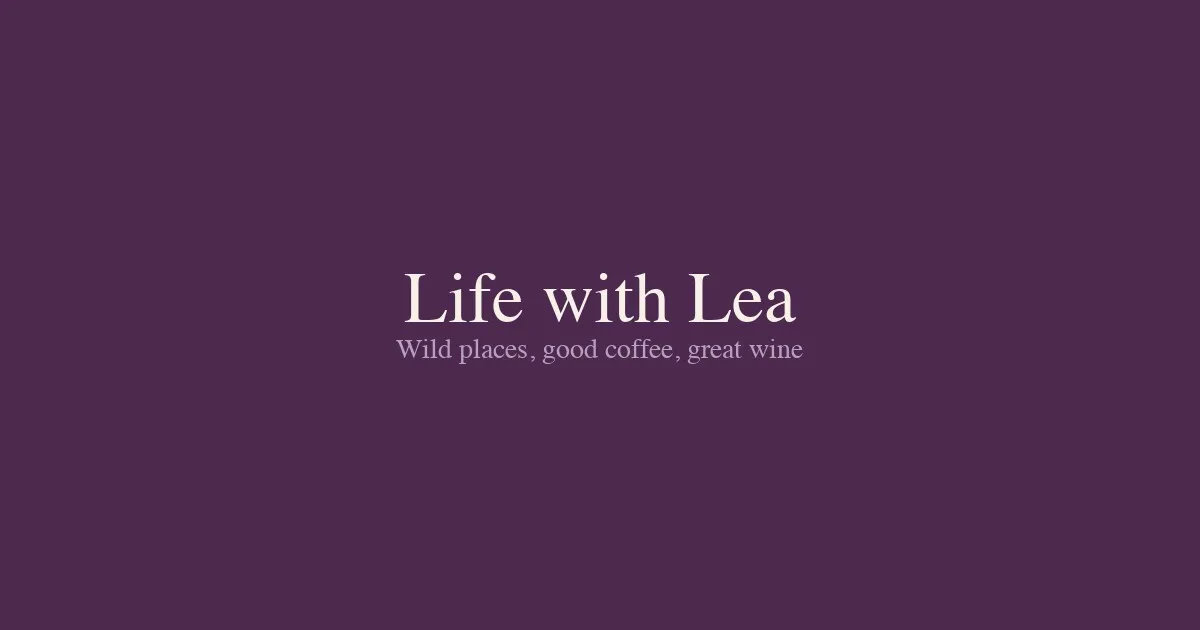
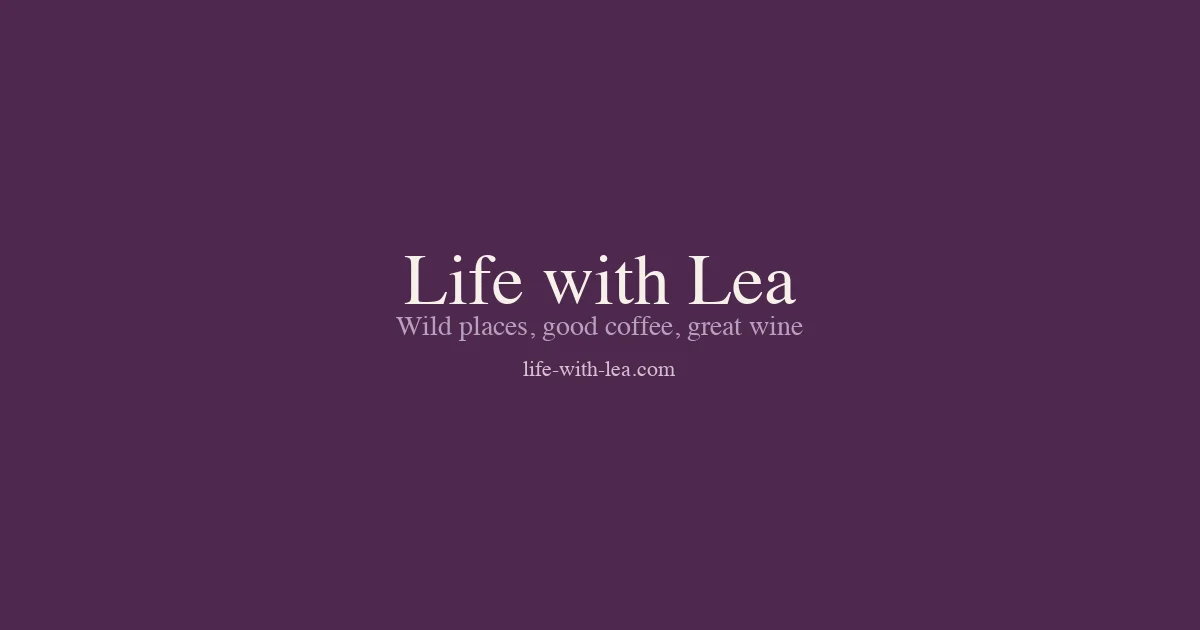
Fix blog images, sideways photos, OG title, contrast, footer links
- Fixed BaseLayout to forward type/pubDate props to SEO (blog structured data now works)
- Changed blog post hero images from .jpg to .webp (were broken)
- Changed intro and category card containers from portrait to landscape aspect ratios
- Replaced all Unsplash URLs with user's own photos
- Shortened OG title to under 60 chars
- Regenerated OG image with CTA (life-with-lea.com)
- Updated footer links to descriptive text (Go → Travel guides, etc.)
- Fixed remaining contrast issues (SectionHeading, Newsletter, PostLayout)

Changed region(s): [[0.3392, 0.3921, 0.6783, 0.6032]]

diff --git a/src/content/think/how-i-got-my-job.md b/src/content/think/how-i-got-my-job.md
@@ -2,7 +2,7 @@
 title: "How I Got My Job (And Why I Still Can't Explain It)"
 description: "A little pixie dust, not accounting, some Econ, and a lot of luck."
 pubDate: 2026-08-05
-heroImage: "/images/IMG_4233.jpg"
+heroImage: "/images/IMG_4233.webp"
 category: "Think"
 tags: ["career", "personal", "advice", "cloudflare"]
 ---

diff --git a/src/content/think/ai-forward-operator.md b/src/content/think/ai-forward-operator.md
@@ -2,7 +2,7 @@
 title: "AI Forward Operator"
 description: "Operations is the unsung hero of every team. In the AI age, it just rebranded."
 pubDate: 2026-08-10
-heroImage: "/images/IMG_3864.jpg"
+heroImage: "/images/IMG_3864.webp"
 category: "Think"
 tags: ["operations", "AI", "career", "work"]
 ---

diff --git a/src/content/live/27.md b/src/content/live/27.md
@@ -2,7 +2,7 @@
 title: "27"
 description: "To every version of me that got us here."
 pubDate: 2024-12-31
-heroImage: "/images/IMG_1750.jpg"
+heroImage: "/images/IMG_1750.webp"
 category: "Live"
 tags: ["personal", "milestone", "reflection", "birthday"]
 ---
